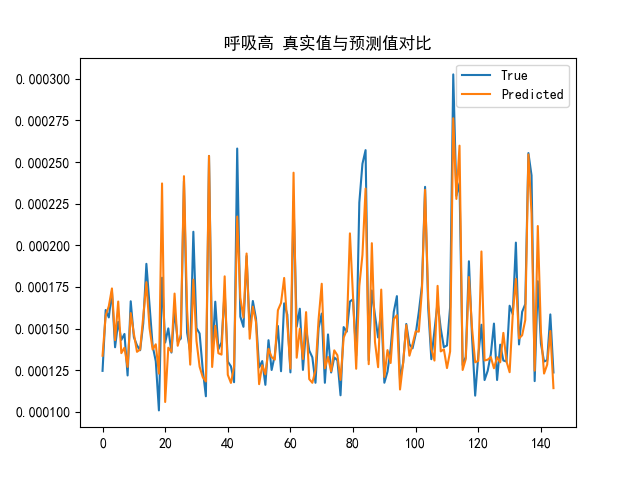
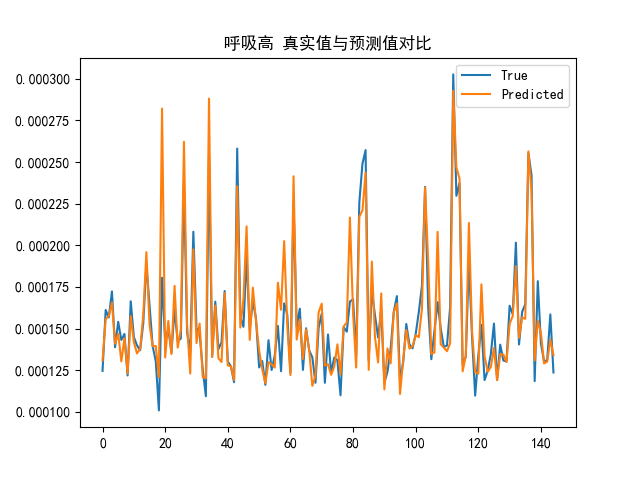
提交剩余更改

Changed region(s): [[0.1562, 0.1875, 0.875, 0.8438]]

diff --git a/预处理测试/贝叶斯优化支持向量机异常检测模型.py b/预处理测试/贝叶斯优化支持向量机异常检测模型.py
@@ -10,24 +10,28 @@ from tensorflow.keras.layers import Dense
 from tensorflow.keras.callbacks import EarlyStopping
 import os
 from datetime import datetime
+from skopt import BayesSearchCV
+from skopt.space import Real, Integer, Categorical
 
-class 完整拟合模型:
-    def __init__(self, 文件路径, 结果目录='预处理测试/results/charts', SVM异常值比例=0.07):
+class 贝叶斯优化完整拟合模型:
+    def __init__(self, 文件路径, 结果目录='预处理测试/results/charts'):
         # 初始化参数
         self.文件路径 = 文件路径
         self.结果目录 = 结果目录
         os.makedirs(self.结果目录, exist_ok=True)
         
-        # 模型参数
-        self.优化器选择 = 1  # 1->Adam, 2->SGD, 3->RMSprop
-        self.最大训练轮数 = 1000
-        self.批量大小 = 93
-        self.测试集比例 = 0.2
-        self.随机种子 = 42
-        self.SVM核函数 = 'poly'  # rbf, linear, poly, sigmoid
-        self.SVM异常值比例 = SVM异常值比例
+        # 定义贝叶斯优化搜索空间
+        self.搜索空间 = {
+            '优化器选择': Integer(1, 3),
+            '最大训练轮数': Integer(100, 1000),
+            '批量大小': Integer(16, 128),
+            '测试集比例': Real(0.1, 0.3),
+            '随机种子': Integer(1, 100),
+            'SVM核函数': Categorical(['rbf', 'linear', 'poly', 'sigmoid']),
+            'SVM异常值比例': Real(0.01, 0.1)
+        }
 
-    def 数据预处理(self):
+    def 数据预处理(self, 参数):
         # 获取当前时间
         current_time = datetime.now().strftime('%Y%m%d_%H%M%S')
         
@@ -40,8 +44,8 @@ class 完整拟合模型:
         
         # 异常值检测
         svm = OneClassSVM(
-            kernel=self.SVM核函数,
-            nu=self.SVM异常值比例
+            kernel=参数['SVM核函数'],
+            nu=参数['SVM异常值比例']
         )
         异常值索引 = svm.fit_predict(X) == -1
         # 保存原始异常值索引用于绘图
@@ -55,8 +59,8 @@ class 完整拟合模型:
         # 划分训练测试集
         self.X_train, self.X_test, self.y_train, self.y_test = train_test_split(
             X, y,
-            test_size=self.测试集比例,
-            random_state=self.随机种子
+            test_size=参数['测试集比例'],
+            random_state=参数['随机种子']
         )
         
         # 数据标准化
@@ -66,86 +70,8 @@ class 完整拟合模型:
         self.X_test_scaled = self.scaler_X.transform(self.X_test)
         self.y_train_scaled = self.scaler_y.fit_transform(self.y_train)
         self.y_test_scaled = self.scaler_y.transform(self.y_test)
-        
-        # 绘图
-        import matplotlib.pyplot as plt
-        from mpl_toolkits.mplot3d import Axes3D
-        plt.rcParams['font.sans-serif'] = ['SimHei']  # 设置中文字体
-        plt.rcParams['axes.unicode_minus'] = False  # 正常显示负号
-        
-        # 设置图片保存目录
-        photos_dir = 'H:/VS Code/Default path/预处理测试/results/photos'
-        os.makedirs(photos_dir, exist_ok=True)
-        
-        # 1. 前处理前后散点图对比
-        fig, (ax1, ax2) = plt.subplots(1, 2, figsize=(12, 6))
-        
-        # 读取原始数据用于绘图
-        df_original = pd.read_excel(self.文件路径)
-        X_original = df_original.iloc[:, :3]
-        
-        # 前处理前
-        ax1.scatter(X_original.iloc[:, 0], X_original.iloc[:, 1], c='blue', alpha=0.5)
-        ax1.scatter(X_original.iloc[self.原始异常值索引, 0], X_original.iloc[self.原始异常值索引, 1],
-                   c='red', marker='x', s=100, alpha=0.8)
-        ax1.set_title('前处理前散点图')
-        ax1.set_xlabel(X_original.columns[0])
-        ax1.set_ylabel(X_original.columns[1])
-        
-        # 前处理后
-        ax2.scatter(self.X_train.iloc[:, 0], self.X_train.iloc[:, 1], c='green', alpha=0.5)
-        ax2.set_title('前处理后散点图')
-        ax2.set_xlabel(self.X_train.columns[0])
-        ax2.set_ylabel(self.X_train.columns[1])
-        
-        plt.tight_layout()
-        plt.savefig(os.path.join(photos_dir, f'支持向量机sigmoid异常值比例{self.SVM异常值比例}前处理对比_{current_time}.png'))
-        plt.close()
-        
-        
-        # 2. 三个因变量的三维散点图
-        fig = plt.figure(figsize=(18, 6))
-        
-        # 读取原始数据用于绘图
-        df_original = pd.read_excel(self.文件路径)
-        X_original = df_original.iloc[:, :3]
-        y_original = df_original.iloc[:, 3:6]
-        
-        # 定义不同颜色映射
-        cmaps = ['viridis', 'plasma', 'inferno']
-        
-        for i, col in enumerate(y_original.columns):
-            ax = fig.add_subplot(1, 3, i+1, projection='3d')
-            
-            # 绘制所有点（包括异常值）
-            sc = ax.scatter(
-                X_original.iloc[:, 0],
-                X_original.iloc[:, 1],
-                X_original.iloc[:, 2],
-                c=y_original[col],
-                cmap=cmaps[i],
-                alpha=0.5
-            )
-            
-            # 用红叉标注异常值
-            ax.scatter(
-                X_original.iloc[self.原始异常值索引, 0],
-                X_original.iloc[self.原始异常值索引, 1],
-                X_original.iloc[self.原始异常值索引, 2],
-                c='red', marker='x', s=100, alpha=0.8
-            )
-            
-            ax.set_title(f'{col} 三维散点图（含异常值）')
-            ax.set_xlabel(X_original.columns[0])
-            ax.set_ylabel(X_original.columns[1])
-            ax.set_zlabel(X_original.columns[2])
-            fig.colorbar(sc, label=col)
-            
-        plt.tight_layout()
-        plt.savefig(os.path.join(photos_dir, f'支持向量机sigmoid异常值比例{self.SVM异常值比例}三维散点图_{current_time}.png'))
-        plt.close()
 
-    def 构建模型(self):
+    def 构建模型(self, 参数):
         self.model = Sequential([
             Dense(64, input_dim=self.X_train_scaled.shape[1], activation='relu'),
             Dense(32, activation='relu'),
@@ -153,12 +79,12 @@ class 完整拟合模型:
         ])
         
         # 设置优化器
-        if self.优化器选择 == 1:
+        if 参数['优化器选择'] == 1:
             optimizer = 'adam'
-        elif self.优化器选择 == 2:
+        elif 参数['优化器选择'] == 2:
             from tensorflow.keras.optimizers import SGD
             optimizer = SGD(learning_rate=0.01)
-        elif self.优化器选择 == 3:
+        elif 参数['优化器选择'] == 3:
             from tensorflow.keras.optimizers import RMSprop
             optimizer = RMSprop(learning_rate=0.01)
         else:
@@ -166,12 +92,12 @@ class 完整拟合模型:
         
         self.model.compile(optimizer=optimizer, loss='mse')
 
-    def 训练模型(self):
+    def 训练模型(self, 参数):
         early_stopping = EarlyStopping(monitor='loss', patience=10, restore_best_weights=True)
         self.history = self.model.fit(
             self.X_train_scaled, self.y_train_scaled,
-            epochs=self.最大训练轮数,
-            batch_size=self.批量大小,
+            epochs=参数['最大训练轮数'],
+            batch_size=参数['批量大小'],
             verbose=1,
             callbacks=[early_stopping]
         )
@@ -194,16 +120,74 @@ class 完整拟合模型:
         self.测试集指标 = {col: 计算指标(self.y_test[col], self.y_test_pred[:, i]) 
                         for i, col in enumerate(self.y_test.columns)}
         
-        # 保存结果
+        # 返回测试集平均RMSE作为优化目标
+        return np.mean([v['RMSE'] for v in self.测试集指标.values()])
+
+    def 目标函数(self, 参数):
+        self.数据预处理(参数)
+        self.构建模型(参数)
+        self.训练模型(参数)
+        return self.评估模型()
+
+    def 运行(self):
+        from skopt import gp_minimize
+        from skopt.utils import use_named_args
+
+        # 将搜索空间转换为带名称的列表格式
+        搜索空间列表 = [
+            Integer(1, 3, name='优化器选择'),
+            Integer(100, 1000, name='最大训练轮数'),
+            Integer(16, 128, name='批量大小'),
+            Real(0.1, 0.3, name='测试集比例'),
+            Integer(1, 100, name='随机种子'),
+            Categorical(['rbf', 'linear', 'poly', 'sigmoid'], name='SVM核函数'),
+            Real(0.01, 0.1, name='SVM异常值比例')
+        ]
+
+        # 定义目标函数
+        @use_named_args(搜索空间列表)
+        def 目标函数包装器(**参数):
+            return self.目标函数(参数)
+
+        # 运行贝叶斯优化
+        优化结果 = gp_minimize(
+            目标函数包装器,
+            搜索空间列表,
+            n_calls=50,
+            random_state=42,
+            verbose=True
+        )
+
+        # 保存最佳参数
+        self.最佳参数 = {
+            '优化器选择': 优化结果.x[0],
+            '最大训练轮数': 优化结果.x[1],
+            '批量大小': 优化结果.x[2],
+            '测试集比例': 优化结果.x[3],
+            '随机种子': 优化结果.x[4],
+            'SVM核函数': 优化结果.x[5],
+            'SVM异常值比例': 优化结果.x[6]
+        }
+
+        # 使用最佳参数重新训练模型
+        self.数据预处理(self.最佳参数)
+        self.构建模型(self.最佳参数)
+        self.训练模型(self.最佳参数)
+        self.评估模型()
+
+        # 保存最佳参数和结果
         self.保存结果()
 
     def 保存结果(self):
         # 保存评价指标
         current_time = datetime.now().strftime('%Y%m%d_%H%M%S')
-        result_path = os.path.join(self.结果目录, f'支持向量机sigmoid_异常值比例{self.SVM异常值比例}_{current_time}.csv')
+        result_path = os.path.join(self.结果目录, f'贝叶斯优化支持向量机_{current_time}.csv')
         
         metrics = []
-        metrics.append([f"异常值比例: {self.SVM异常值比例}"])
+        metrics.append(["最佳参数"])
+        for k, v in self.最佳参数.items():
+            metrics.append([f"{k}: {v}"])
+        
         metrics.append([])
         metrics.append(["训练集指标"])
         for col in self.y_train.columns:
@@ -225,15 +209,9 @@ class 完整拟合模型:
             ])
         
         pd.DataFrame(metrics).to_csv(result_path, index=False, header=False)
-        print(f"训练和测试结果已保存到: {result_path}")
-
-    def 运行(self):
-        self.数据预处理()
-        self.构建模型()
-        self.训练模型()
-        self.评估模型()
+        print(f"贝叶斯优化结果已保存到: {result_path}")
 
 # 使用示例
 if __name__ == "__main__":
-    模型 = 完整拟合模型('拟合模型/第一批.xlsx')
+    模型 = 贝叶斯优化完整拟合模型('拟合模型/第一批.xlsx')
     模型.运行()
